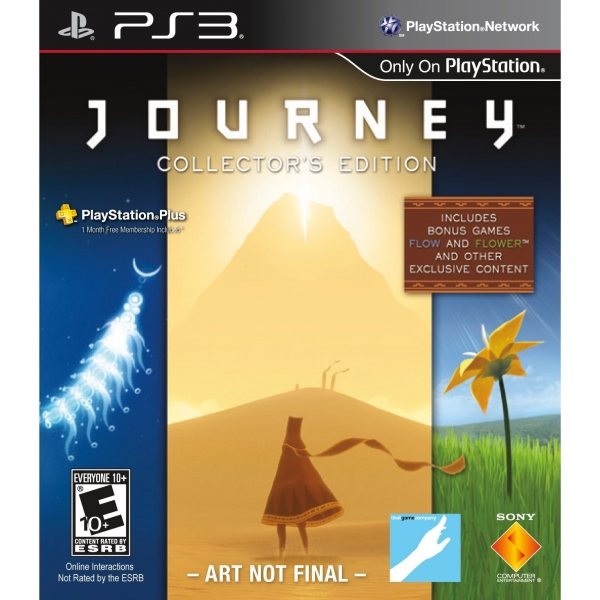
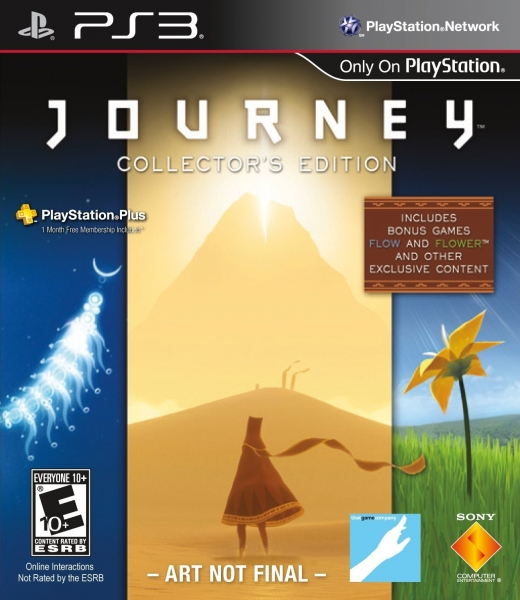
cut the side of cover

diff --git a/index.html b/index.html
@@ -131,7 +131,7 @@
     </div>
 
     <div id="slide_journey_17" class="step" data-x="2825" data-y="1525" data-z="-5000" data-scale="1" style="text-align:center;" >
-      <img src="images/cover.jpg" width="80%">
+      <img src="images/cover.jpg" height="80%">
     </div>
 
     <div id="its-in-3d" class="step" data-x="3025" data-y="1625" data-z="-5100" data-rotate-x="-40" data-rotate-y="10" data-scale="1">
